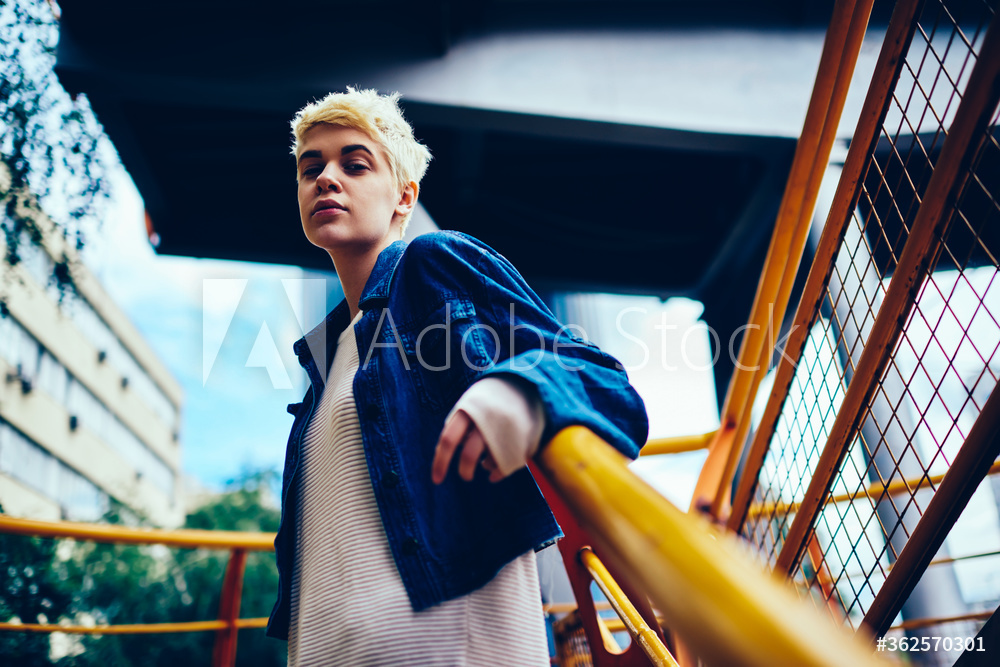
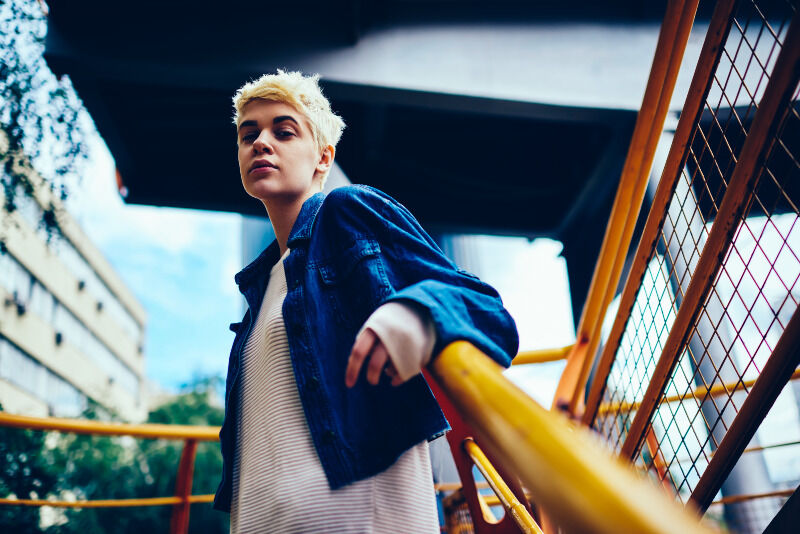
add non-watermarked images

diff --git a/src/components/TheHeader.vue b/src/components/TheHeader.vue
@@ -3,7 +3,7 @@
     class="ow-header"
     :class="[
       { 'ow-header--hidden': !showHeader },
-      'ow-header' + headerModifier,
+      'ow-header' + headerModifier
     ]"
   >
     <div class="ow-container">
@@ -17,11 +17,11 @@
           class="column ow-header__nav"
           :class="[
             {
-              'ow-header__nav--parent-hidden': !showHeader,
+              'ow-header__nav--parent-hidden': !showHeader
             },
             {
-              'ow-header__nav--is-active': isActiveMenu,
-            },
+              'ow-header__nav--is-active': isActiveMenu
+            }
           ]"
         >
           <div class="mobilefix">
@@ -30,13 +30,13 @@
                 <span
                   class="ow-header__toggle-bubble-hamburger ow-header__toggle-bubble-hamburger--top"
                   :class="{
-                    'ow-header__toggle-bubble-hamburger--top--is-active': isActiveMenu,
+                    'ow-header__toggle-bubble-hamburger--top--is-active': isActiveMenu
                   }"
                 ></span>
                 <span
                   class="ow-header__toggle-bubble-hamburger ow-header__toggle-bubble-hamburger--bottom"
                   :class="{
-                    'ow-header__toggle-bubble-hamburger--bottom--is-active': isActiveMenu,
+                    'ow-header__toggle-bubble-hamburger--bottom--is-active': isActiveMenu
                   }"
                 ></span>
               </button>
@@ -45,7 +45,7 @@
           <div
             class="ow-header__toggle-bubble-background"
             :class="{
-              'ow-header__toggle-bubble-background--is-active': isActiveMenu,
+              'ow-header__toggle-bubble-background--is-active': isActiveMenu
             }"
           ></div>
           <ul class="ow-header__menu">
@@ -133,20 +133,20 @@ export default {
     headerStyle: {
       type: String,
       required: false,
-      default: "white",
-    },
+      default: "white"
+    }
   },
   mounted() {
     if (process.isClient) {
-      this.windowWidth = window.innerWidth
+      this.windowWidth = window.innerWidth;
       window.addEventListener("scroll", this.onScroll);
-      window.addEventListener("resize", this.onResize)
+      window.addEventListener("resize", this.onResize);
     }
   },
   beforeDestroy() {
     if (process.isClient) {
       window.removeEventListener("scroll", this.onScroll);
-      window.removeEventListener("resize", this.onResize)
+      window.removeEventListener("resize", this.onResize);
     }
   },
   data() {
@@ -158,7 +158,7 @@ export default {
     };
   },
   computed: {
-    headerModifier: function () {
+    headerModifier: function() {
       let headerStyleModifierClass;
       switch (this.headerStyle) {
         case "white":
@@ -170,31 +170,31 @@ export default {
       }
       return headerStyleModifierClass;
     },
-    buttonColorModifier: function () {
+    buttonColorModifier: function() {
       let buttonColorModifier;
-        if (this.windowWidth > 1408) {
-          switch (this.headerStyle) {
-            case "white":
-              buttonColorModifier = "primary";
-              break;
-            case "primary":
-              buttonColorModifier = "white";
-              break;
-          }
-        } else {
-          buttonColorModifier = "primary";
+      if (this.windowWidth > 1408) {
+        switch (this.headerStyle) {
+          case "white":
+            buttonColorModifier = "primary";
+            break;
+          case "primary":
+            buttonColorModifier = "white";
+            break;
         }
+      } else {
+        buttonColorModifier = "primary";
+      }
       return buttonColorModifier;
     },
-    buttonSizeModifier: function () {
-      let buttonSizeModifier
-        if (this.windowWidth > 1408) {
-          buttonSizeModifier = "normal";
-        } else {
-          buttonSizeModifier = "large";
-        }
-      return buttonSizeModifier
-    },
+    buttonSizeModifier: function() {
+      let buttonSizeModifier;
+      if (this.windowWidth > 1408) {
+        buttonSizeModifier = "normal";
+      } else {
+        buttonSizeModifier = "large";
+      }
+      return buttonSizeModifier;
+    }
   },
   methods: {
     toggleMenu() {
@@ -202,7 +202,7 @@ export default {
     },
     onResize() {
       if (process.isClient) {
-        this.windowWidth = window.innerWidth
+        this.windowWidth = window.innerWidth;
       }
     },
     onScroll() {
@@ -220,8 +220,8 @@ export default {
         this.showHeader = currentScrollPosition < this.lastScrollPosition;
         this.lastScrollPosition = currentScrollPosition;
       }
-    },
-  },
+    }
+  }
 };
 </script>
 

diff --git a/src/components/TheFooter.vue b/src/components/TheFooter.vue
@@ -45,7 +45,7 @@
             <ul class="ow-footer__menu">
               <li><strong>Stichting Ozanam 's-Gravenhage</strong></li>
               <li>2e Schuytstraat 244</li>
-              <li>2517IS Den Haag</li>
+              <li>2517 IS Den Haag</li>
               <li>Nederland</li>
               <br />
               <a class="ow-footer__menu-link" href="mailto:mail@opwegdenhaag.nl"

diff --git a/src/components/OwJumbotron.vue b/src/components/OwJumbotron.vue
@@ -85,7 +85,7 @@ export default {
   &__lead,
   &__link {
     position: relative;
-    z-index: 1000;
+    z-index: 10;
   }
 
   &__title {
